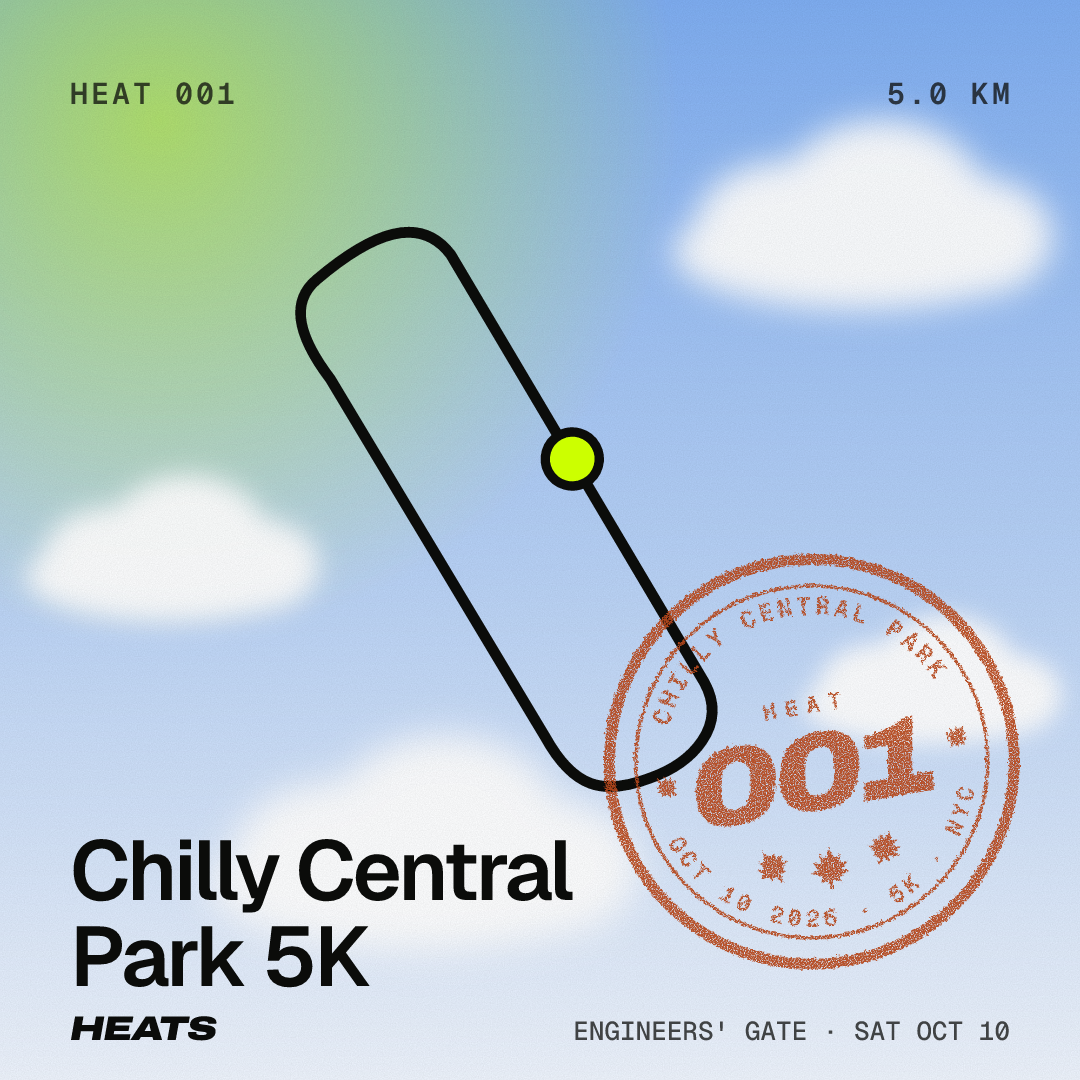
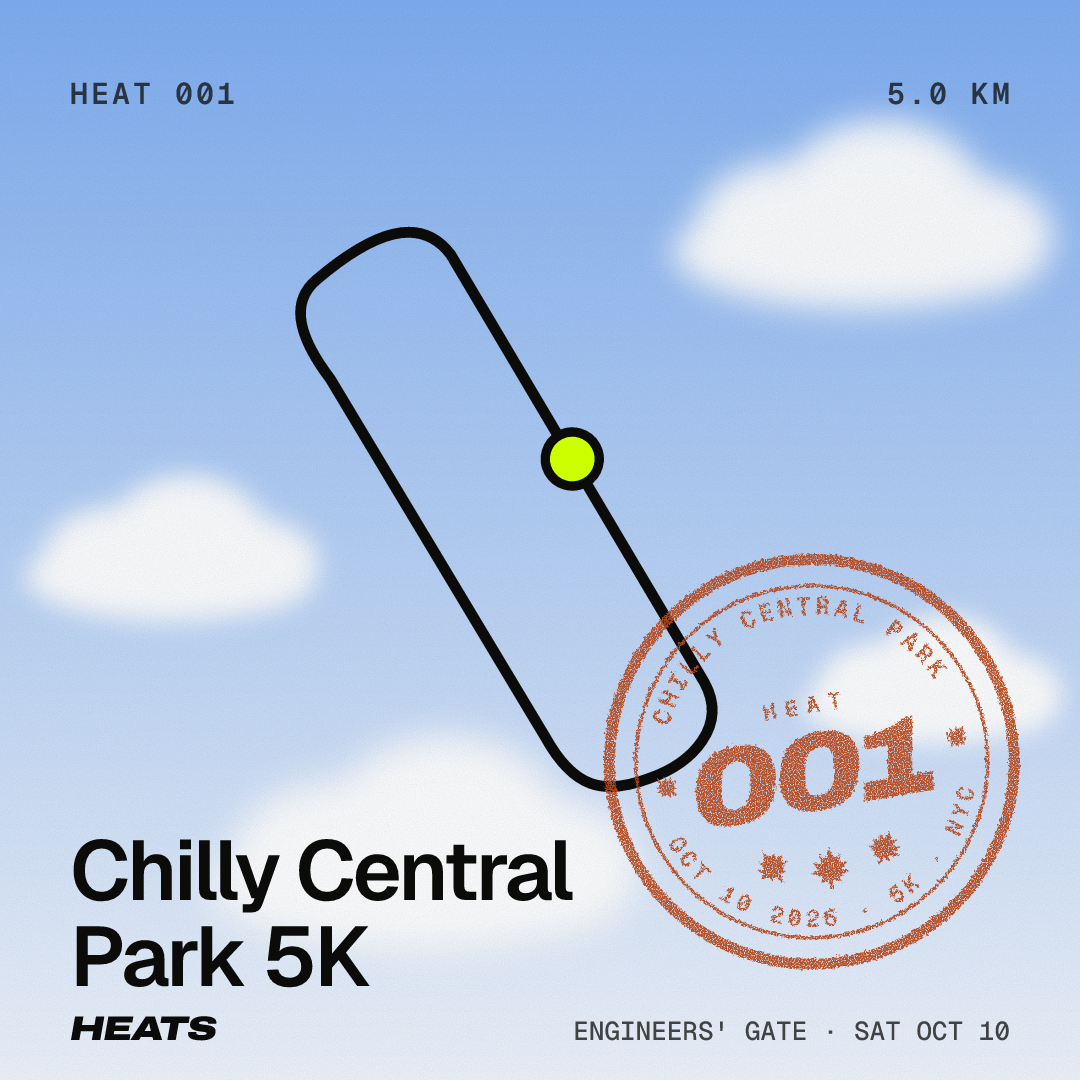
Cloud cover: drop the green glow

Changed region(s): [[0.0, 0.0, 0.55, 0.4889]]

diff --git a/web/scripts/luma-assets.ts b/web/scripts/luma-assets.ts
@@ -67,9 +67,8 @@ const puff = (cx: number, cy: number, k: number) =>
 const clouds = `<svg xmlns="http://www.w3.org/2000/svg" width="${S}" height="${S}" viewBox="0 0 ${S} ${S}">${STYLE}<defs>${INK}
   <filter id="soft" x="-50%" y="-50%" width="200%" height="200%"><feGaussianBlur stdDeviation="14"/></filter>
   <linearGradient id="sky" x1="0" y1="0" x2="0" y2="1"><stop offset="0" stop-color="#7FAEF2"/><stop offset=".55" stop-color="#BBD4F7"/><stop offset="1" stop-color="#EEF4FD"/></linearGradient>
-  <radialGradient id="glow" cx="160" cy="120" r="520" gradientUnits="userSpaceOnUse"><stop offset="0" stop-color="${CENTRAL.b}" stop-opacity=".55"/><stop offset="1" stop-color="${CENTRAL.b}" stop-opacity="0"/></radialGradient></defs>
+</defs>
   <rect width="${S}" height="${S}" fill="url(#sky)"/>
-  <rect width="${S}" height="${S}" fill="url(#glow)"/>
   <g opacity=".95">${puff(860, 230, 1.1)}${puff(170, 560, 0.85)}${puff(930, 690, 0.75)}${puff(420, 860, 1.25)}</g>
   <rect width="${S}" height="${S}" filter="url(#grain)" opacity=".16"/>
   <text x="70" y="104" class="t-mono" font-size="30" letter-spacing="3" fill="#0B0C0A" opacity=".75">HEAT 001</text>
